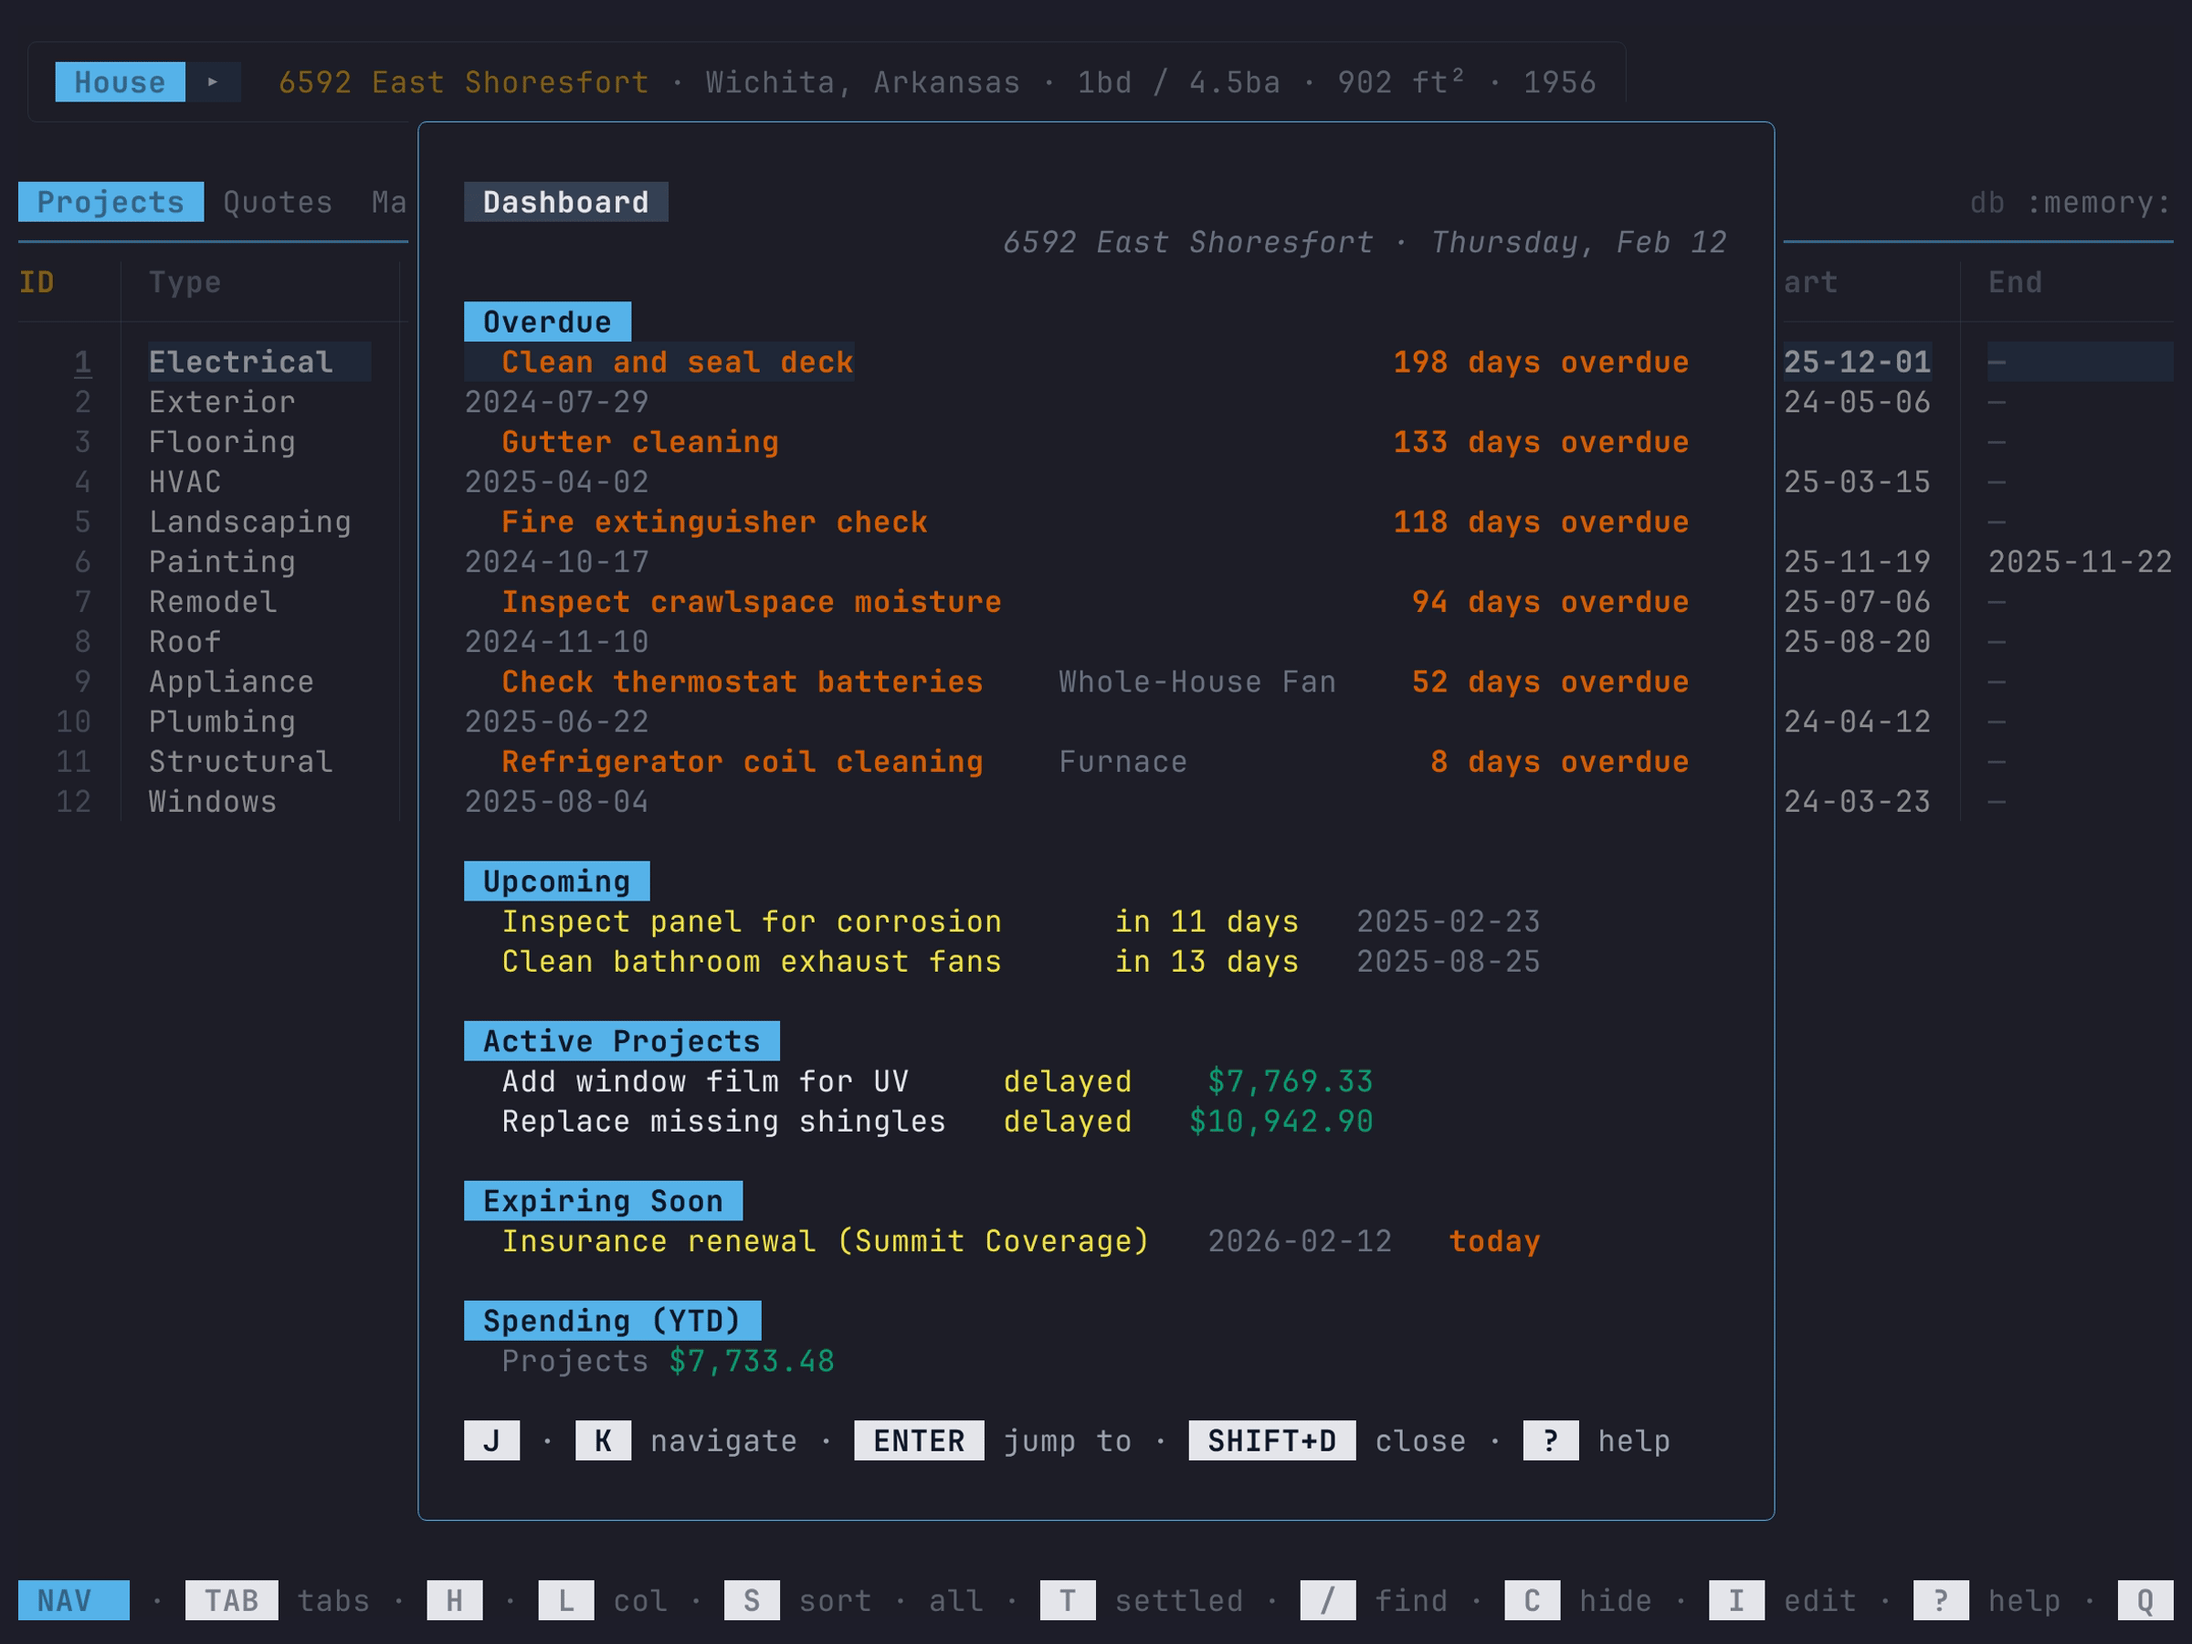
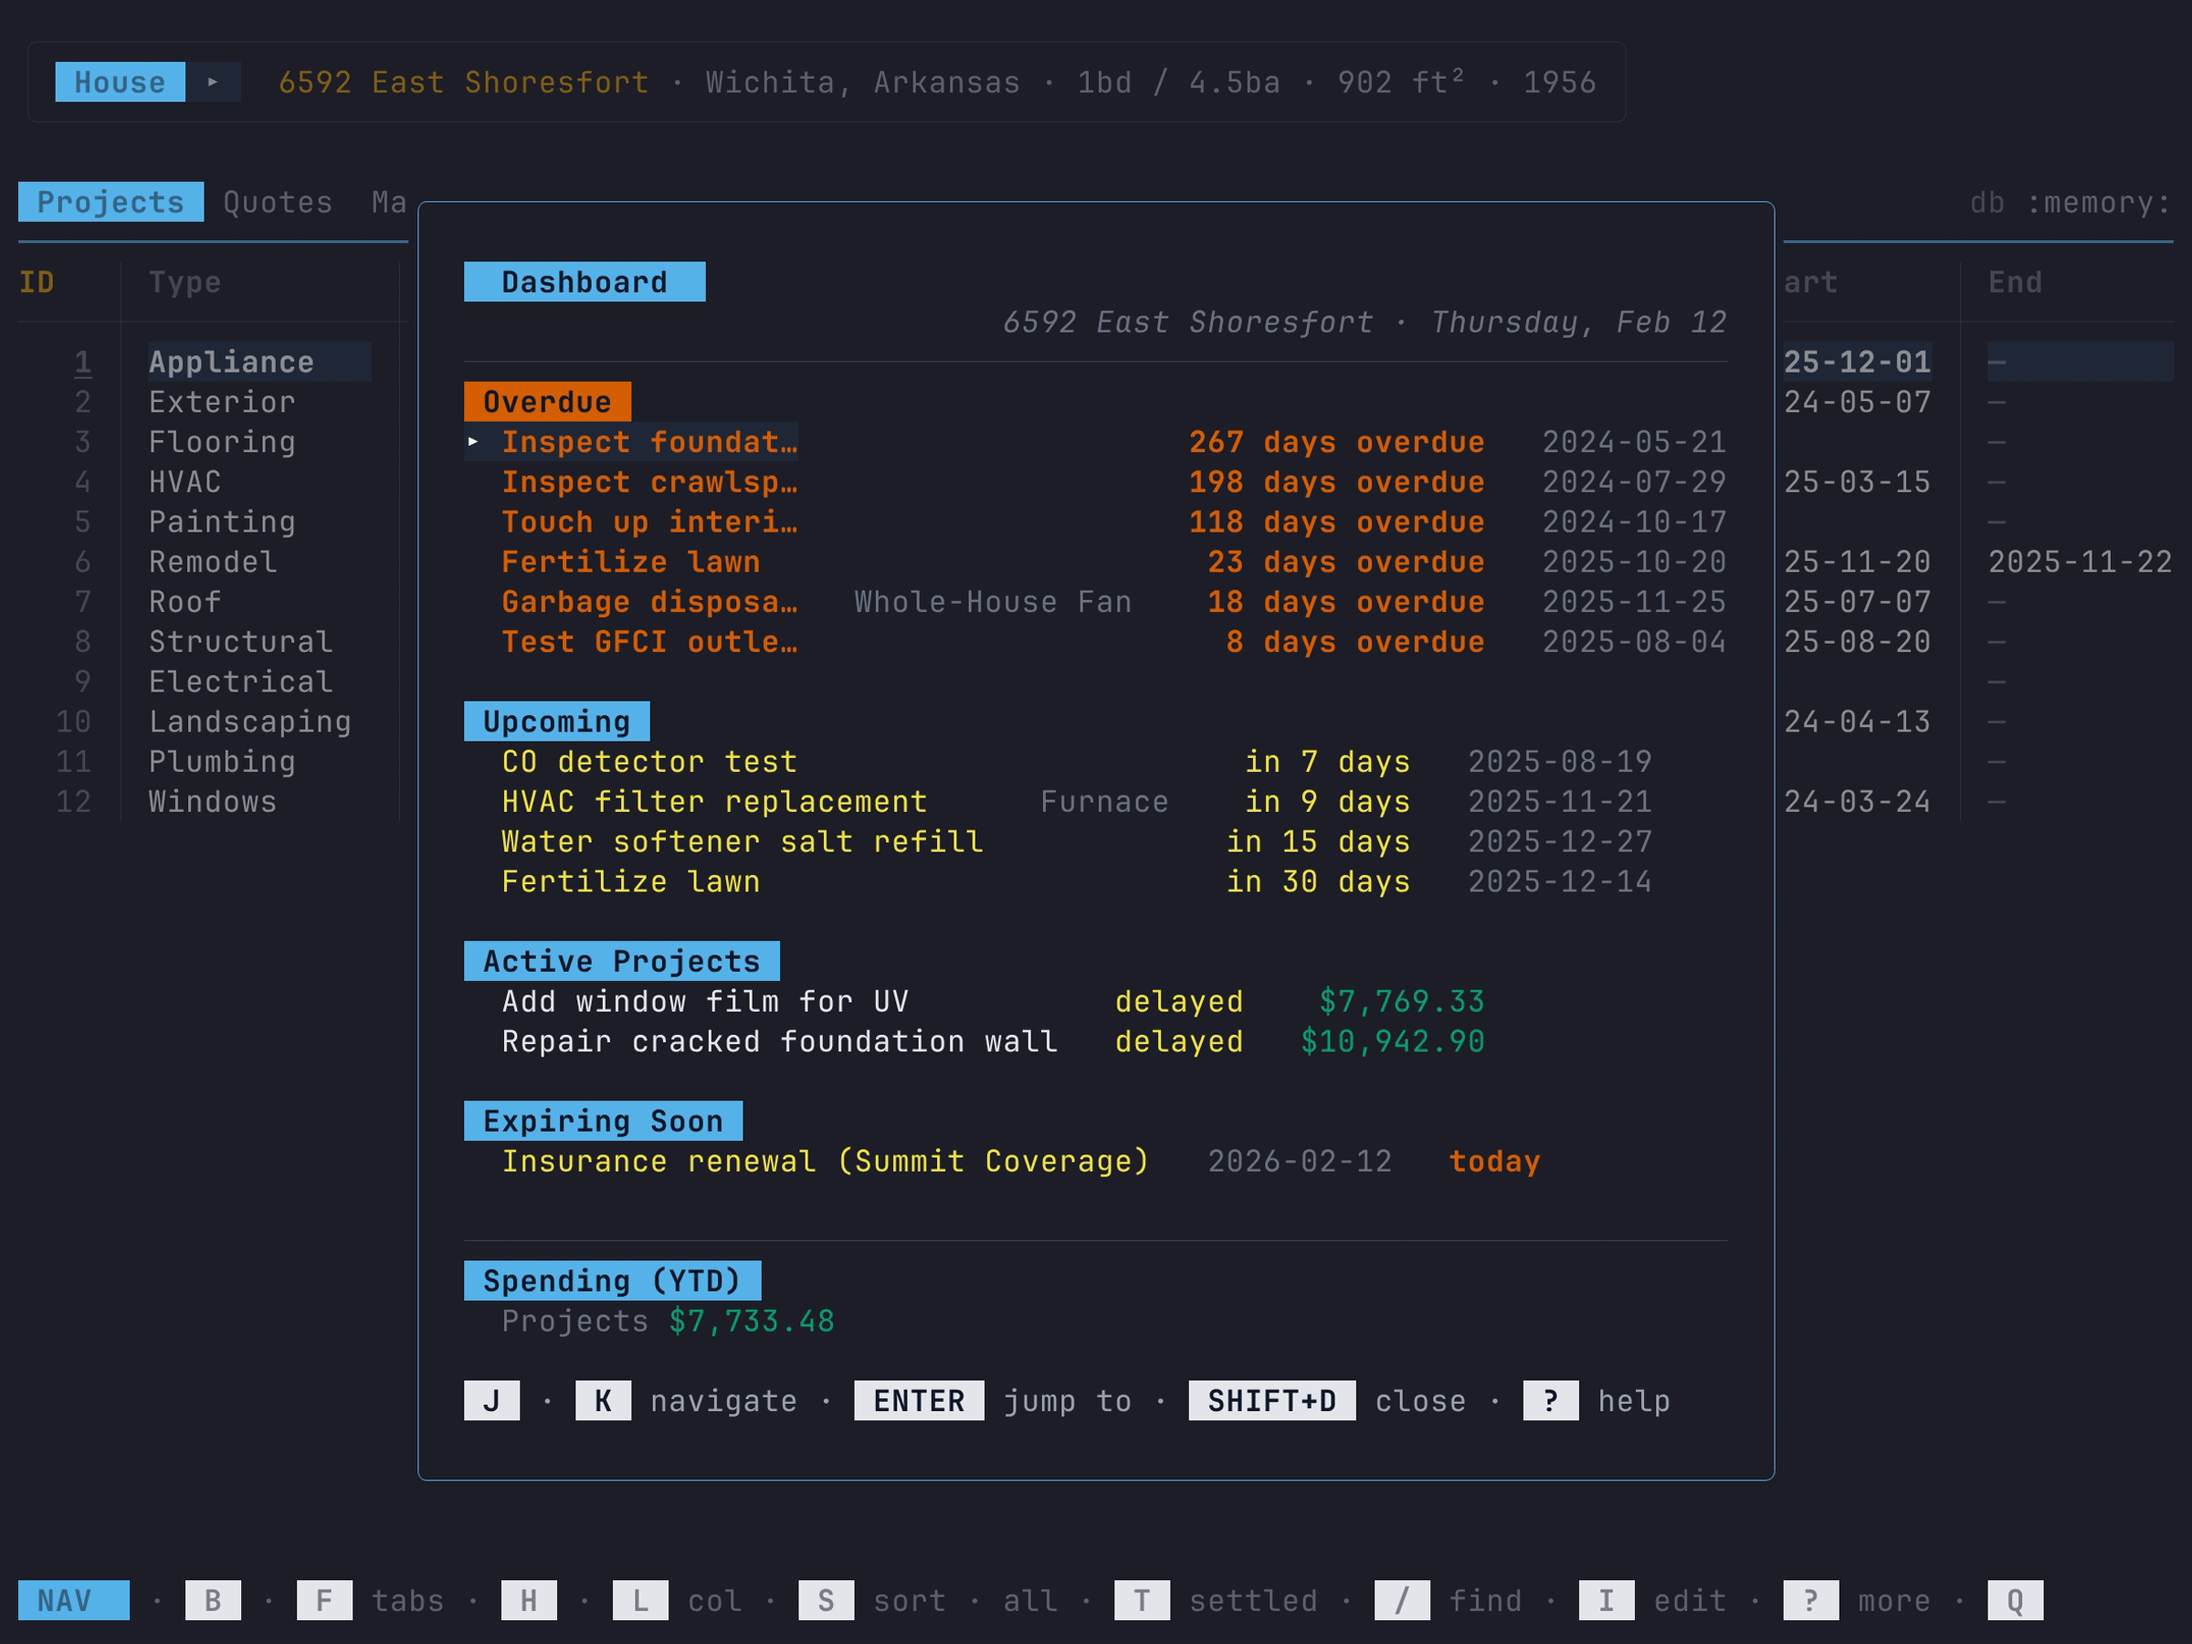
feat(ui): polish dashboard overlay styling
- Promote title from HeaderSection (grey bg) to HeaderTitle (accent bg)
  to match help overlay treatment
- Add cursor indicator on selected dashboard row for better visibility
  alongside the existing highlight background
- Use DashSectionWarn style (vermillion bg) for "Overdue" sub-header
  to visually distinguish it from calmer sections
- Add thin horizontal rule between title/header and content, and before
  the spending footer, for clearer visual separation
- Add DashRule and DashSectionWarn styles to the palette
- Re-record dashboard screenshot and demo GIF

closes #22

diff --git a/internal/app/dashboard.go b/internal/app/dashboard.go
@@ -157,7 +157,11 @@ func renderMiniTable(
 				parts[i] = styled + strings.Repeat(" ", pad)
 			}
 		}
-		line := "  " + strings.Join(parts, gap)
+		prefix := "  "
+		if rowIdx == cursor {
+			prefix = "\u25b8 "
+		}
+		line := prefix + strings.Join(parts, gap)
 		if rowIdx == cursor {
 			line = selected.Render(line)
 		}
@@ -398,7 +402,7 @@ func (m *Model) dashboardView(budget, maxWidth int) string {
 		if len(sections) > 0 {
 			fixedLines++ // blank before spending
 		}
-		fixedLines += 2 // header + data
+		fixedLines += 3 // rule + header + data
 	}
 
 	// Distribute remaining budget among data rows.
@@ -449,8 +453,9 @@ func (m *Model) dashboardView(budget, maxWidth int) string {
 	}
 
 	if spendLine != "" {
+		rule := m.styles.DashRule.Render(strings.Repeat("─", maxWidth))
 		header := m.styles.DashSection.Render("Spending (YTD)")
-		allLines = append(allLines, header+"\n  "+spendLine)
+		allLines = append(allLines, rule+"\n"+header+"\n  "+spendLine)
 	}
 
 	// Update nav to match the trimmed view.
@@ -482,7 +487,11 @@ func (m *Model) renderMaintSection(
 		if rendered > 0 {
 			lines = append(lines, "")
 		}
-		lines = append(lines, m.styles.DashSection.Render(subTitle))
+		sectionStyle := m.styles.DashSection
+		if subTitle == "Overdue" {
+			sectionStyle = m.styles.DashSectionWarn
+		}
+		lines = append(lines, sectionStyle.Render(subTitle))
 		subRows := capSlice(s.rows[offset:offset+s.subCounts[si]], subN)
 		localCursor := -1
 		if cursor >= 0 && cursor < subN {

diff --git a/internal/app/styles.go b/internal/app/styles.go
@@ -41,6 +41,8 @@ type Styles struct {
 	HiddenRight     lipgloss.Style // hidden cols to the right of cursor
 	DashSubtitle    lipgloss.Style // dashboard subtitle (house name, date)
 	DashSection     lipgloss.Style // dashboard section header
+	DashSectionWarn lipgloss.Style // dashboard section header (overdue/warning)
+	DashRule        lipgloss.Style // dashboard horizontal rule
 	DashLabel       lipgloss.Style // dashboard dim label text
 	DashValue       lipgloss.Style // dashboard bright value text
 	DashOverdue     lipgloss.Style // overdue maintenance item
@@ -202,6 +204,13 @@ func DefaultStyles() Styles {
 			Background(accent).
 			Padding(0, 1).
 			Bold(true),
+		DashSectionWarn: lipgloss.NewStyle().
+			Foreground(onAccent).
+			Background(danger).
+			Padding(0, 1).
+			Bold(true),
+		DashRule: lipgloss.NewStyle().
+			Foreground(border),
 		DashLabel: lipgloss.NewStyle().
 			Foreground(textDim),
 		DashValue: lipgloss.NewStyle().

diff --git a/internal/app/view.go b/internal/app/view.go
@@ -169,10 +169,11 @@ func (m *Model) buildDashboardOverlay() string {
 	content := m.dashboardView(contentBudget, innerW)
 
 	// Title: "Dashboard" left-aligned, header (nickname · date) right-aligned.
-	title := m.styles.HeaderSection.Render("Dashboard")
+	title := m.styles.HeaderTitle.Render(" Dashboard ")
 
+	rule := m.styles.DashRule.Render(strings.Repeat("─", innerW))
 	boxContent := lipgloss.JoinVertical(
-		lipgloss.Left, title, header, "", content, "", hints,
+		lipgloss.Left, title, header, rule, content, "", hints,
 	)
 
 	return lipgloss.NewStyle().
